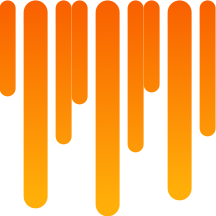
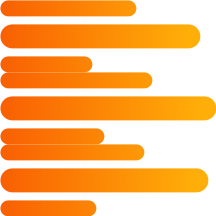
Rotates flame

diff --git a/src/js/states/preloader.js b/src/js/states/preloader.js
@@ -29,7 +29,7 @@
       this.load.image('smile'      , 'assets/success.png');
       this.load.image('ship'       , 'assets/ship.svg');
 
-      this.load.spritesheet('shipFlame'  , 'assets/ship-flame.png', 72, 216, 3);
+      this.load.spritesheet('shipFlame'  , 'assets/ship-flame.png', 216, 72, 3);
       this.load.spritesheet('flames' , 'assets/flames.png', 62, 36, 3);
       this.load.spritesheet('commet' , 'assets/comet-flame.png', 262, 127, 3);
 
